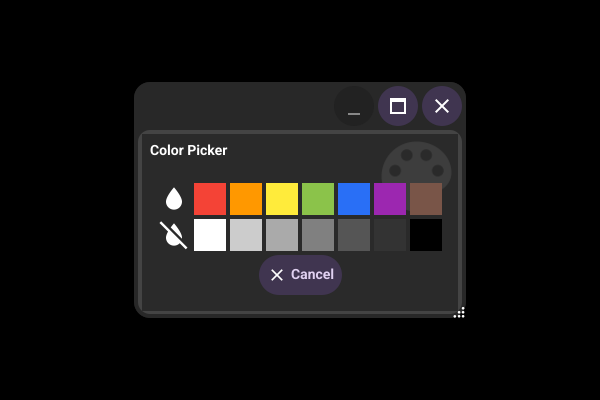
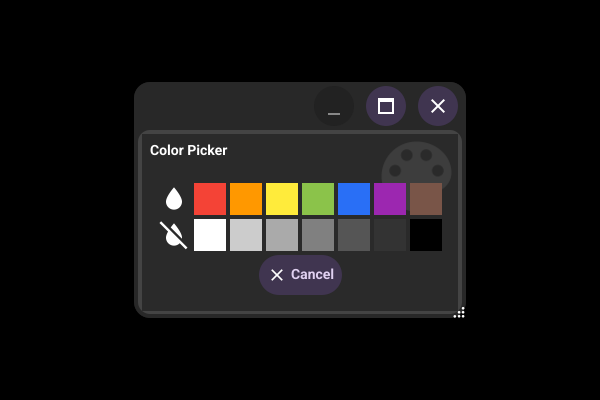
container: give the InnerWindow frame buttons the full 48dp touch target on mobile (#254)
Review follow-up on the first cut, which sized the frame buttons at the
40dp icon-button metric — that is the MD3 *visual* size, not the touch
target: the Android floor is 48dp, and only the button's own bounds were
tappable, so the padding ring around it stayed dead while the drivers'
tapYOffset kept pushing touches into it.

Each frame button now spans the icon-button size plus a padding ring per
side (48dp on the default theme, shared via frameButtonTouchTarget), the
visual stays at 40dp by insetting the themed button, and
borderButton.Tapped keeps the ring live by forwarding to the inner
button (which guards its own disabled state). Desktop still renders the
plain stretched button — no ring exists there, so the new Tapped is
unreachable on that leg.

The mobile-tagged test now asserts the 40dp visual, the 48dp tappable
object resolved at a ring point, and taps on the center, the
tapYOffset-shifted center, and the ring. Dialog mobile masters
regenerated for the wider button row; CHANGELOG claim updated to the
theme-derived target.

The frame's remaining sub-target chrome — the 16dp resize corner — is
the same bug class but overlaps hosted content, so enlarging it needs
its own design pass: filed as #263.

Changed region(s): [[0.54, 0.21, 0.78, 0.33]]

diff --git a/internal/driver/mobile/canvas_innerwindow_close_mobile_test.go b/internal/driver/mobile/canvas_innerwindow_close_mobile_test.go
@@ -6,6 +6,8 @@ import (
 	"testing"
 
 	"github.com/belluikit/bellui"
+	"github.com/belluikit/bellui/core"
+	"github.com/belluikit/bellui/event"
 	"github.com/belluikit/bellui/geo"
 	_ "github.com/belluikit/bellui/test"
 	"github.com/belluikit/bellui/theme"
@@ -15,10 +17,12 @@ import (
 )
 
 // Test_windowedDialogFrameCloseButton_TouchTarget locks in the #254 fix: on a
-// mobile device the InnerWindow frame buttons must meet the minimum touch
-// target, and a tap shifted up by the iOS/Android tapYOffset finger
-// compensation (-8dp) must still resolve to the close button rather than the
-// inert title bar.
+// mobile device the InnerWindow frame buttons keep the icon-button visual but
+// expose the full touch target around it (visual + padding ring, 48dp on the
+// default theme — the MD3/Android floor). A tap shifted up by the iOS/Android
+// tapYOffset finger compensation (-8dp) and a tap on the ring outside the
+// visual must both resolve to the close button rather than the inert title
+// bar.
 func Test_windowedDialogFrameCloseButton_TouchTarget(t *testing.T) {
 	c := newCanvas(bellui.CurrentDevice()).(*canvas)
 	c.SetContent(widget.NewLabel("content behind"))
@@ -32,10 +36,25 @@ func Test_windowedDialogFrameCloseButton_TouchTarget(t *testing.T) {
 		t.Fatal("no frame buttons found in the InnerWindow title bar")
 	}
 
-	target := theme.Current().Size(theme.SizeNameIconButtonSize)
+	th := theme.Current()
+	visual := th.Size(theme.SizeNameIconButtonSize)
+	pad := th.Size(theme.SizeNamePadding)
+	target := visual + pad*2
+
 	btnSize := closeBtn.Size()
-	assert.GreaterOrEqual(t, btnSize.Width, target, "frame button width must meet the touch target")
-	assert.GreaterOrEqual(t, btnSize.Height, target, "frame button height must meet the touch target")
+	assert.Equal(t, geo.NewSquareSize(visual), btnSize, "the visual button must keep the icon-button size")
+
+	// The ring around the visual belongs to the touch target: the tappable
+	// object resolved there must span at least the platform floor.
+	ringPos := btnPos.AddXY(btnSize.Width+pad/2, btnSize.Height/2)
+	ring, _, _ := c.FindObjectAtPositionMatching(ringPos, func(object core.CanvasObject) bool {
+		_, ok := object.(event.Tappable)
+		return ok
+	})
+	if assert.NotNil(t, ring, "the ring outside the visual button must resolve to a tappable object") {
+		assert.GreaterOrEqual(t, ring.Size().Width, target, "touch-target width must meet the platform floor")
+		assert.GreaterOrEqual(t, ring.Size().Height, target, "touch-target height must meet the platform floor")
+	}
 
 	center := btnPos.Add(geo.NewPos(btnSize.Width/2, btnSize.Height/2))
 	tapAt(c, center)
@@ -46,4 +65,10 @@ func Test_windowedDialogFrameCloseButton_TouchTarget(t *testing.T) {
 	closed = 0
 	tapAt(c, center.AddXY(0, -8))
 	assert.Equal(t, 1, closed, "tap shifted by the tapYOffset must still hit the close button")
+
+	// A tap on the ring — inside the touch target, outside the visual — must
+	// activate the button too.
+	closed = 0
+	tapAt(c, ringPos)
+	assert.Equal(t, 1, closed, "tap on the touch-target ring must hit the close button")
 }

diff --git a/container/innerwindow.go b/container/innerwindow.go
@@ -177,10 +177,18 @@ func (w *InnerWindow) barHeight() float32 {
 	th := w.Theme()
 	height := th.Size(theme.SizeNameWindowTitleBarHeight)
 	if bellui.CurrentDevice().IsMobile() {
-		buttons := th.Size(theme.SizeNameIconButtonSize) + th.Size(theme.SizeNamePadding)*2
-		return geo.Max(height, buttons)
+		return geo.Max(height, frameButtonTouchTarget(th))
 	}
 	return height
+}
+
+// frameButtonTouchTarget returns the edge of a frame button's touch target on
+// mobile: the icon-button visual plus a padding ring on each side — 40+2×4 =
+// 48dp on the default theme, the MD3/Android touch-target floor. The ring
+// matters beyond the floor: the drivers shift every touch up by up to 8dp
+// (tapYOffset), which the ring absorbs.
+func frameButtonTouchTarget(th bellui.Theme) float32 {
+	return th.Size(theme.SizeNameIconButtonSize) + th.Size(theme.SizeNamePadding)*2
 }
 
 func (w *InnerWindow) buttonPosition() widget.ButtonAlign {
@@ -388,7 +396,22 @@ func newBorderButton(icon bellui.Resource, mode titleBarButtonMode, th bellui.Th
 }
 
 func (b *borderButton) CreateRenderer() core.WidgetRenderer {
+	if bellui.CurrentDevice().IsMobile() {
+		// MD3 icon-button geometry (#254): the visual button keeps the
+		// standard icon-button size while the widget spans the full touch
+		// target; the surrounding ring is kept live by borderButton.Tapped.
+		pad := b.Theme().Size(theme.SizeNamePadding)
+		return widget.NewSimpleRenderer(New(layout.NewCustomPaddedLayout(pad, pad, pad, pad), b.c))
+	}
 	return widget.NewSimpleRenderer(b.c)
+}
+
+// Tapped keeps the padding ring around the visual button live on mobile: the
+// inner widget.Button only spans the icon-button visual, so taps resolving
+// inside the touch target but outside the visual land here (#254). Tapped is
+// a no-op for disabled buttons — widget.Button guards that itself.
+func (b *borderButton) Tapped(ev *event.PointEvent) {
+	b.b.Tapped(ev)
 }
 
 func (b *borderButton) Disable() {
@@ -410,7 +433,7 @@ func (b *borderButton) MinSize() geo.Size {
 		// Meet the platform minimum touch target (#254): the desktop chrome
 		// button is too small to hit with a finger, especially with the
 		// drivers' tapYOffset shifting touches upward.
-		height = geo.Max(height, th.Size(theme.SizeNameIconButtonSize))
+		height = geo.Max(height, frameButtonTouchTarget(th))
 	}
 	return geo.NewSquareSize(height)
 }

diff --git a/CHANGELOG.md b/CHANGELOG.md
@@ -52,9 +52,10 @@ the trendvidia fork (github.com/trendvidia/fyne).
   close button a 16dp target — under every platform's touch minimum — while
   the mobile drivers shift each touch up by 8dp of finger compensation, so on
   an iPad a tap on the X resolved above the button onto the inert title label
-  nearly every time. On mobile devices the title bar now sizes itself to hold
-  `IconButtonSize` frame buttons carrying the standard icon size; desktop
-  chrome is unchanged.
+  nearly every time. On mobile devices each frame button now spans the theme's
+  icon-button size plus a padding ring — 48dp on the default theme, the
+  MD3/Android touch-target floor — with the visual button kept at the
+  icon-button size carrying the standard icon; desktop chrome is unchanged.
 
 * **Android: folders granted through the SAF picker's Download shortcut are
   accepted** ([#244](https://github.com/belluikit/bellui/issues/244)). The
